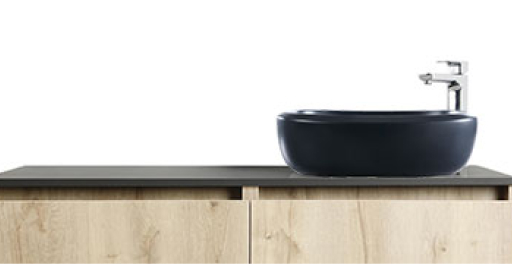
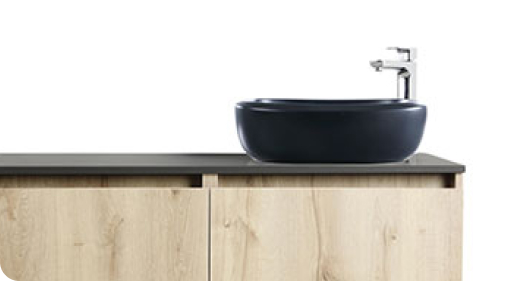
v97

diff --git a/2021/banos/cascadenegro.html b/2021/banos/cascadenegro.html
@@ -15,17 +15,17 @@
     <title>Nuevos acabados Cascade</title>
 </head>
 <body>
-  <main class="banos"> <!-- HERO Cascade Plus -->
+  <main class="banos"> <!-- HERO Cascade Negro -->
     <section class="hero">
       <div class="hero_video-mobile" style="padding:100% 0 0 0;position:relative;"> <!-- Video 1:1 -->
-        <iframe src="https://player.vimeo.com/video/612007514?background=1" style="position:absolute;top:0;left:0;width:100%;height:100%;" frameborder="0" allow="autoplay; fullscreen; picture-in-picture" allowfullscreen></iframe>
+        <iframe src="https://player.vimeo.com/video/622773190?background=1" style="position:absolute;top:0;left:0;width:100%;height:100%;" frameborder="0" allow="autoplay; fullscreen; picture-in-picture" allowfullscreen></iframe>
       </div>
       <div class="hero_video-tablet" style="padding:56.25% 0 0 0;position:relative;"> <!-- Video 16:9 / escondido en mobile -->
-        <iframe src="https://player.vimeo.com/video/609865615?background=1" style="position:absolute;top:0;left:0;width:100%;height:100%;" frameborder="0" allow="autoplay; fullscreen; picture-in-picture" allowfullscreen></iframe>
+        <iframe src="https://player.vimeo.com/video/622773319?background=1" style="position:absolute;top:0;left:0;width:100%;height:100%;" frameborder="0" allow="autoplay; fullscreen; picture-in-picture" allowfullscreen></iframe>
       </div>
      
       <div class="hero_vido-desktop" style="padding:42.19% 0 0 0;position:relative;"> <!-- Video 21:9 / escondido en mobile -->
-        <iframe src="https://player.vimeo.com/video/616487419?background=1" style="position:absolute;top:0;left:0;width:100%;height:100%;" frameborder="0" allow="autoplay; fullscreen; picture-in-picture" allowfullscreen></iframe>
+        <iframe src="https://player.vimeo.com/video/622773415?background=1" style="position:absolute;top:0;left:0;width:100%;height:100%;" frameborder="0" allow="autoplay; fullscreen; picture-in-picture" allowfullscreen></iframe>
       </div>
       
       <div class="hero_content">
@@ -79,62 +79,70 @@
       <div class="scrolling_container">
         <div class="products_grid products_grid-cascadeVital"> <!-- Este es el contenedor de las tarjetas de atributos -->
 
-          <div class="card stdCard"> <!-- AquaFlow Plus stdCard 1 -->
-            <div class="stdCard-textContainer">
-              <h3>AquaFlow</h3>
-              <p>Acabado uniforme que impide la acumulación de agua y residuos.</p>
+            <div class="card stdCard"> <!-- AquaFlow  stdCard 1 -->
+                <div>
+                    <img class="imageProductContainer-fixed" src="../../assets/img/CascadeNegro1.jpg" alt="">
+                </div>
+                <div class="stdCard-textContainer">
+                    <h3>AquaFlow</h3>
+                    <p>Acabado uniforme que impide la acumulación de agua y residuos.</p>
+                </div>
             </div>
-            <img class="imageProductContainer" src="../../assets/img/CascadePlus1.jpg" alt="">
-          </div>
 
-          <div class="card stdCard"> <!-- CoverGloss stdCard 2 -->
-            <div class="stdCard-textContainer">
-              <h3>CoverGloss</h3>
-              <p>Alta resistencia al rayado y a cambios de temperatura.</p>
+            <div class="card stdCard"> <!-- CoverGloss stdCard 2 -->
+                <div class="img_container">
+                    <img class="imageProductContainer-fixed" src="../../assets/img/CascadeNegro2.jpg" alt="">
+                </div>
+                <div class="stdCard-textContainer">
+                    <h3>CoverGloss</h3>
+                    <p>Alta resistencia al rayado y a cambios de temperatura.</p>
+                </div>
             </div>
-            <img class="imageProductContainer" src="../../assets/img/CascadePlus2.jpg" alt="">
-          </div>
 
-        <div class="card stdCard"> <!-- Cascade Negro bkgCard - Negro Mate y brillante -->
-            <div class="lottieContainer">
-                <lottie-player src="https://assets2.lottiefiles.com/packages/lf20_4n40xgbr.json" background="transparent" speed="1" style="width: 100%; height: auto;" loop autoplay></lottie-player>
+            <div id="cascadeNegro-mate" class="card stdCard"> <!-- Cascade Negro bkgCard - Negro Mate y brillante -->
+                <div class="lottieContainer">
+                    <lottie-player  class="lottie-player" src="https://assets3.lottiefiles.com/packages/lf20_pu1vzdeu.json" background="transparent" speed="1" loop autoplay></lottie-player>
+                </div>
+                <div class="stdCard-textContainer">
+                    <h3>Negro Mate y Brillante</h3>
+                    <p>El complemento ideal para ambientes modernos e inspirados en las últimas tendencias.</p>
+                </div>
             </div>
-            <div class="stdCard-textContainer">
-                <h3>Negro Mate y Brillante</h3>
-                <p>El complemento ideal para ambientes modernos e inspirados en las últimas tendencias.</p>
-            </div>
-        </div>
 
-          <div class="card bkgCard">
-            <div class="card stdCard"> <!-- Cascade Negro bkgCard - Pozos amplios -->
-              <div></div>
-              <div class="stdCard-textContainer">
-                <h3>Apertura tipo push</h3>
-                <p>Cuenta con dos cajones de apertura tipo push, que con tan solo un impulso en el frente ofrecen mayor comodidad en su manipulación. </p>
-              </div>
+            <div id="cascadeNegro-compatible" class="card stdCard"> <!-- Compatibilidad stdCard 1 -->
+                <div class="stdCard-textContainer">
+                    <h3>Compatibilidad Corona</h3>
+                    <p>Estos lavamanos son compatibles con la línea de Mobiliario Cascade Plus, Plus Vessel (1.20 y 1.40) y línea de grifería monocontrol Cascade alta.</p>
+                </div>
+                <div class="img_container img_container-mobile">
+                    <img id="cascadeNegro_img-compatible"class="imageProductContainer-fixed" src="../../assets/img/CascadeNegro4.jpg" alt="">
+                </div>
+                <div class="img_container img_container-desktop">
+                    <img id="cascadeNegro_img-compatible"class="imageProductContainer-fixed" src="../../assets/img/CascadeNegro4b.jpg" alt="">
+                </div>
             </div>
-            <div style="padding:133.33% 0 0 0;position:relative;" width="100%">
-              <iframe src="https://player.vimeo.com/video/610227987?background=1" style="position:absolute;top:0;left:0;width:100%;height:100%;" frameborder="0" allow="autoplay; fullscreen; picture-in-picture" allowfullscreen ></iframe>
-            </div>
-          </div>
-          
-          <div class="card stdCard"> <!-- Cascade Negro bkgCard - galardonado -->
-            <div class="lottieContainer">
-              <lottie-player src="https://assets10.lottiefiles.com/packages/lf20_t2grgrfb.json" background="transparent" speed="1" style="width: 90%; height: auto;" loop autoplay></lottie-player>
-            </div>
-            <div class="stdCard-textContainer">
-                <h3>Resistencia a la humedad</h3>
-                <p>Melamina con mayor resistencia a la humedad propia del baño.</p>
-            </div>
-          </div>
 
-          <div class="card bkgCard">
-            <div class="card ctrCard"> <!-- Cascade Plus bkgCard - Textura madera -->
-              <h3>Mayor resistencia</h3>
-              <p>Cuenta con cantos rígidos para mayor durabilidad.</p>
+            <div class="card stdCard"> <!-- Cascade Negro bkgCard - Pozo Amplio -->
+                <div class="lottieContainer">
+                    <lottie-player class="lottie-player"  src="https://assets1.lottiefiles.com/packages/lf20_gtjpuyiv.json" background="transparent" speed="1"loop autoplay></lottie-player>
+                </div>
+                <div class="stdCard-textContainer">
+                    <h3>Pozos amplios y profundos</h3>
+                    <p>Permite mayor comodidad al realizar diferentes actividades cotidianas al momento de su uso.</p>
+                </div>
             </div>
-            <img class="imageProductContainer" src="../../assets/img/CascadePlus7.jpg" alt="">
-          </div>
+
+            <div class="card stdCard"> <!-- Cascade Negro bkgCard - Galardonado -->
+                <div class="lottieContainer">
+                    <lottie-player  class="lottie-player" src="https://assets1.lottiefiles.com/packages/lf20_eg41ems2.json" background="transparent" speed="1" loop autoplay></lottie-player>
+                </div>
+                <div class="stdCard-textContainer">
+                    <h3>Galardonado por su diseño</h3>
+                    <p>Este lavamanos ha sido reconocido con el Good Design Award y el A’Design Award.</p>
+                </div>
+            </div>
+
+         
 
           <div class="product_card-last"></div> <!-- Index Card final -->
 
@@ -256,7 +264,9 @@
 
     <section class="botonera">
         <div><a href="./index.html"><span class="arrowContainer arrowLeft"></span></a></div>
+        <div><a href="">Cascade Plus<span class="arrowContainer arrowRight"></span></a></div>
         <div><a href="">Nuevos acabados Cascade<span class="arrowContainer arrowRight"></span></a></div>
+        <div><a href="">Acabado antimicrobiano<span class="arrowContainer arrowRight"></span></a></div>
     </section>
 
         <!-- MODAL: Estas son las imagenes que se verán en pantalla completa -->

diff --git a/css/pages.css b/css/pages.css
@@ -263,10 +263,27 @@ padding: 1.6rem;
     background-color: white;
 }
 
+.img_container {
+  display: flex;
+  justify-content: center;
+  overflow: hidden;
+  width: 100%;
+  height: 100%;
+}
+  .img_container-desktop {
+    display: none;
+  }
+
 .imageProductContainer {
     height: 100%;
     width: 100%;
     object-fit: fill;
+}
+.imageProductContainer-fixed {
+    height: 160px;
+    width: auto;
+    margin: 0 auto;
+    object-fit: cover;
 }
 
 .imageProductContainerVertical {
@@ -308,13 +325,18 @@ padding: 1.6rem;
 }
 
 .lottieContainer {
-    width: 100%;
-    height: 100%;
+    max-width: 100%;
+    max-height: 100%;
     display: flex;
     justify-content: center;
     align-items: center;
-    padding: 1.6rem 3.2rem;
+    overflow: hidden;
+    /* padding: 1.6rem 3.2rem; */
 }
+  .lottie-player {
+    width: auto;
+    height: 100%;
+  }
 
 .detailCard {
     display: flex;
@@ -344,7 +366,7 @@ padding: 1.6rem;
 
 .botonera {
     display: grid;
-    grid-template-columns: auto auto;
+    grid-template-columns: auto auto auto auto;
     gap: 1.6rem;
     justify-content: center;
     padding: 3.2rem 1.6rem;
@@ -367,7 +389,7 @@ padding: 1.6rem;
   box-shadow: var(--Shadow);
 }
 
-.botonera div:last-child {
+.botonera div {
   display: flex;
   flex-direction: row;
   justify-content: center;
@@ -392,6 +414,7 @@ padding: 1.6rem;
   margin-left: 0.8rem;
   background-image: url(../assets/icons/arrow-forward-white.svg);
 }
+
 
 
 

diff --git a/2021/banos/cascadeplus.html b/2021/banos/cascadeplus.html
@@ -102,7 +102,7 @@
           <div class="card bkgCard">
             <div class="card stdCard"> <!-- Cascade Plus bkgCard - Corona Stone -->
               <div class="lottieContainer">
-                <lottie-player src="https://assets2.lottiefiles.com/packages/lf20_4n40xgbr.json" background="transparent" speed="1" style="width: 100%; height: auto;" loop autoplay></lottie-player>
+                <lottie-player class="lottie-player" src="https://assets2.lottiefiles.com/packages/lf20_4n40xgbr.json" background="transparent" speed="1" loop autoplay></lottie-player>
               </div>
               <div class="stdCard-textContainer">
                 <p>Alta resistencia a manchas, rayones y golpes, además, muy higiénicos debido a su baja absorción de impurezas.</p>
@@ -126,7 +126,7 @@
           
           <div class="card stdCard"> <!-- Cascade Plus bkgCard - RH -->
             <div class="lottieContainer">
-              <lottie-player src="https://assets10.lottiefiles.com/packages/lf20_t2grgrfb.json" background="transparent" speed="1" style="width: 90%; height: auto;" loop autoplay></lottie-player>
+              <lottie-player class="lottie-player"  src="https://assets10.lottiefiles.com/packages/lf20_t2grgrfb.json" background="transparent" speed="1" loop autoplay></lottie-player>
             </div>
             <div class="stdCard-textContainer">
                 <h3>Resistencia a la humedad</h3>

diff --git a/2021/banos/cascadevital.html b/2021/banos/cascadevital.html
@@ -101,7 +101,7 @@
           <div class="card bkgCard">
             <div class="card stdCard"> <!-- Cascade Vital bkgCard - Corona Stone -->
               <div class="lottieContainer">
-                <lottie-player src="https://assets2.lottiefiles.com/packages/lf20_4n40xgbr.json" background="transparent" speed="1" style="width: 100%; height: auto;" loop autoplay></lottie-player>
+                <lottie-player class="lottie-player" src="https://assets2.lottiefiles.com/packages/lf20_4n40xgbr.json" background="transparent" speed="1"  loop autoplay></lottie-player>
               </div>
               <div class="stdCard-textContainer">
                 <p>Alta resistencia a manchas, rayones y golpes, además, muy higiénicos debido a su baja absorción de impurezas.</p>
@@ -125,7 +125,7 @@
           
           <div class="card stdCard"> <!-- Cascade Vital bkgCard - RH -->
             <div class="lottieContainer">
-              <lottie-player src="https://assets10.lottiefiles.com/packages/lf20_t2grgrfb.json" background="transparent" speed="1" style="width: 90%; height: auto;" loop autoplay></lottie-player>
+              <lottie-player class="lottie-player" src="https://assets10.lottiefiles.com/packages/lf20_t2grgrfb.json" background="transparent" speed="1"loop autoplay></lottie-player>
             </div>
             <div class="stdCard-textContainer">
               <h3>Resistencia a la humedad</h3>

diff --git a/css/responsive_1400.css b/css/responsive_1400.css
@@ -156,15 +156,19 @@
     }
         .products_grid-cascadeVital {
             grid-template-columns: repeat(4, 1fr);
+            grid-template-rows: 1fr;
         }
 
     .card {
         width: 100%;
-        height: 320px;
+        height: 340px;
     }
 
     .product_card_content {
         padding: 3.2rem;
+    }
+    .product_card-last {
+        display: none;
     }
 
     #CascadeVitalVideoArmado {
@@ -224,7 +228,19 @@
         padding: 3.2rem;
     }
 
-
+    /* CASCADE NEGRO MATE Y BRILLANTE */
+    #cascadeNegro-mate {
+        grid-column: 3 / span 2;
+    }
+    #cascadeNegro-compatible {
+        grid-column: 1 / span 2;
+    }
+    .img_container-mobile {
+        display: none;
+      }
+    .img_container-desktop {
+        display: flex;
+      }
 
 
 

diff --git a/2021/cocinas/index.html b/2021/cocinas/index.html
@@ -59,7 +59,7 @@
                                 </div>
                                 <div>
                                     <p>Conoce por qué</p>
-                                    <a href="./provenza.html"><span class="arrowContainer arrowDiag-cocinas"></span></a>
+                                    <a href="./"><span class="arrowContainer arrowDiag-cocinas"></span></a>
                                 </div>
                             </div>
                         </div>

diff --git a/2021/banos/index.html b/2021/banos/index.html
@@ -85,7 +85,7 @@
                                 </div>
                                 <div>
                                     <p>Conoce por qué</p>
-                                    <a href=""><span class="arrowContainer arrowDiag-banos"></span></a>
+                                    <a href="./cascadenegro.html"><span class="arrowContainer arrowDiag-banos"></span></a>
                                 </div>
                             </div>
                         </div>

diff --git a/css/responsive_640.css b/css/responsive_640.css
@@ -35,11 +35,6 @@
         margin-left: -3.2rem;
     }
 
-    .index_card {
-        width: 256px;
-        height: 340px;
-    }
-
     .index_card-last,
     .product_card-last {
         width: 1.6rem;
